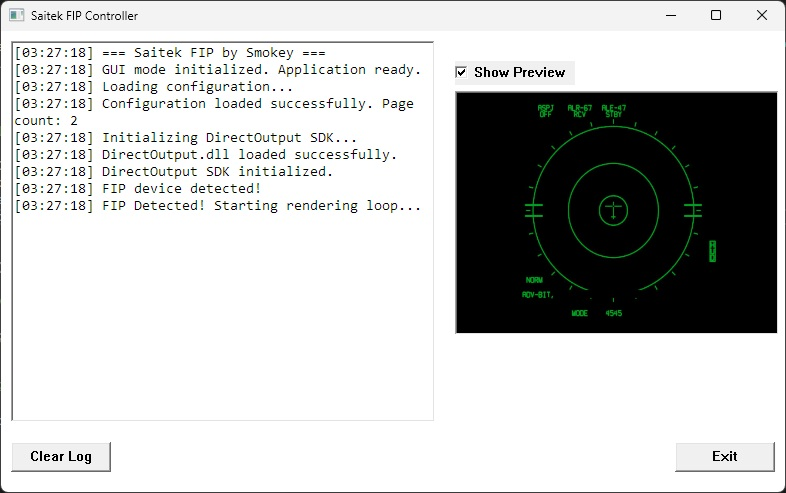
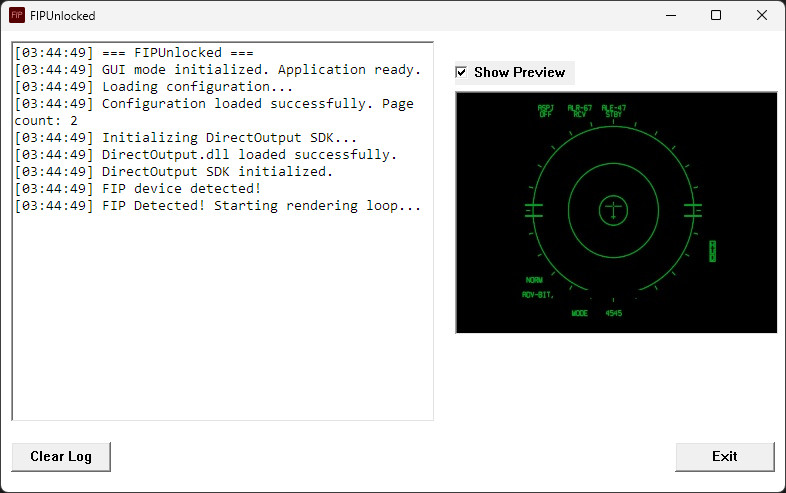
update

Changed region(s): [[0.0, 0.0913, 0.5191, 0.426], [0.0, 0.0, 0.1832, 0.0609], [0.4885, 0.1826, 0.5191, 0.2434]]

diff --git a/FIPUnlocked/FIPUnlocked.cpp b/FIPUnlocked/FIPUnlocked.cpp
@@ -5,6 +5,7 @@ volatile bool g_shouldExit = false;
 #include <windows.h>
 #include <wchar.h>
 #include "DirectOutput.h"
+#include "resource.h"
 #include <fstream>
 #include <cstdint>
 #include <vector>
@@ -154,7 +155,7 @@ LRESULT CALLBACK MainWindowProc(HWND hWnd, UINT uMsg, WPARAM wParam, LPARAM lPar
                 DEFAULT_CHARSET, OUT_DEFAULT_PRECIS, CLIP_DEFAULT_PRECIS,
                 DEFAULT_QUALITY, DEFAULT_PITCH | FF_DONTCARE, L"Consolas");
             SendMessage(g_hLogEdit, WM_SETFONT, (WPARAM)hFont, TRUE);
-            QueueLogMessage(L"=== Saitek FIP by Smokey ===");
+            QueueLogMessage(L"=== FIPUnlocked ===");
             QueueLogMessage(L"GUI mode initialized. Application ready.");
             ProcessLogQueue();
             break;
@@ -278,11 +279,11 @@ bool InitializeGUI() {
     wc.cbSize = sizeof(WNDCLASSEX);
     wc.lpfnWndProc = MainWindowProc;
     wc.hInstance = GetModuleHandle(NULL);
-    wc.lpszClassName = L"SaitekFIPMainWindow";
+    wc.lpszClassName = L"FIPUnlockedMainWindow";
     wc.hbrBackground = (HBRUSH)(COLOR_WINDOW + 1);
     wc.hCursor = LoadCursor(NULL, IDC_ARROW);
-    wc.hIcon = LoadIcon(NULL, IDI_APPLICATION);
-    wc.hIconSm = LoadIcon(NULL, IDI_APPLICATION);
+    wc.hIcon = LoadIcon(GetModuleHandle(NULL), MAKEINTRESOURCE(IDI_ICON1));
+    wc.hIconSm = LoadIcon(GetModuleHandle(NULL), MAKEINTRESOURCE(IDI_ICON1));
     
     if (!RegisterClassEx(&wc)) {
         return false;
@@ -290,7 +291,7 @@ bool InitializeGUI() {
     
     // Create main window
     g_hMainWindow = CreateWindowEx(
-        0, L"SaitekFIPMainWindow", L"Saitek FIP Controller",
+        0, L"FIPUnlockedMainWindow", L"FIPUnlocked",
         WS_OVERLAPPEDWINDOW,
         CW_USEDEFAULT, CW_USEDEFAULT, 800, 500,
         NULL, NULL, GetModuleHandle(NULL), NULL

diff --git a/FIPUnlocked/resource.h b/FIPUnlocked/resource.h
@@ -1,0 +1,17 @@
+//{{NO_DEPENDENCIES}}
+// Microsoft Visual C++ generated include file.
+// Used by FIPUnlocked.rc
+//
+#define IDI_ICON1                       101
+#define IDC_STATIC                      -1
+
+// Next default values for new objects
+// 
+#ifdef APSTUDIO_INVOKED
+#ifndef APSTUDIO_READONLY_SYMBOLS
+#define _APS_NEXT_RESOURCE_VALUE        102
+#define _APS_NEXT_COMMAND_VALUE         32771
+#define _APS_NEXT_CONTROL_VALUE         1000
+#define _APS_NEXT_SYMED_VALUE          110
+#endif
+#endif 

diff --git a/README.md b/README.md
@@ -1,4 +1,4 @@
-# Saitek FIP Controller
+# FIPUnlocked
 
 ## Description
 
